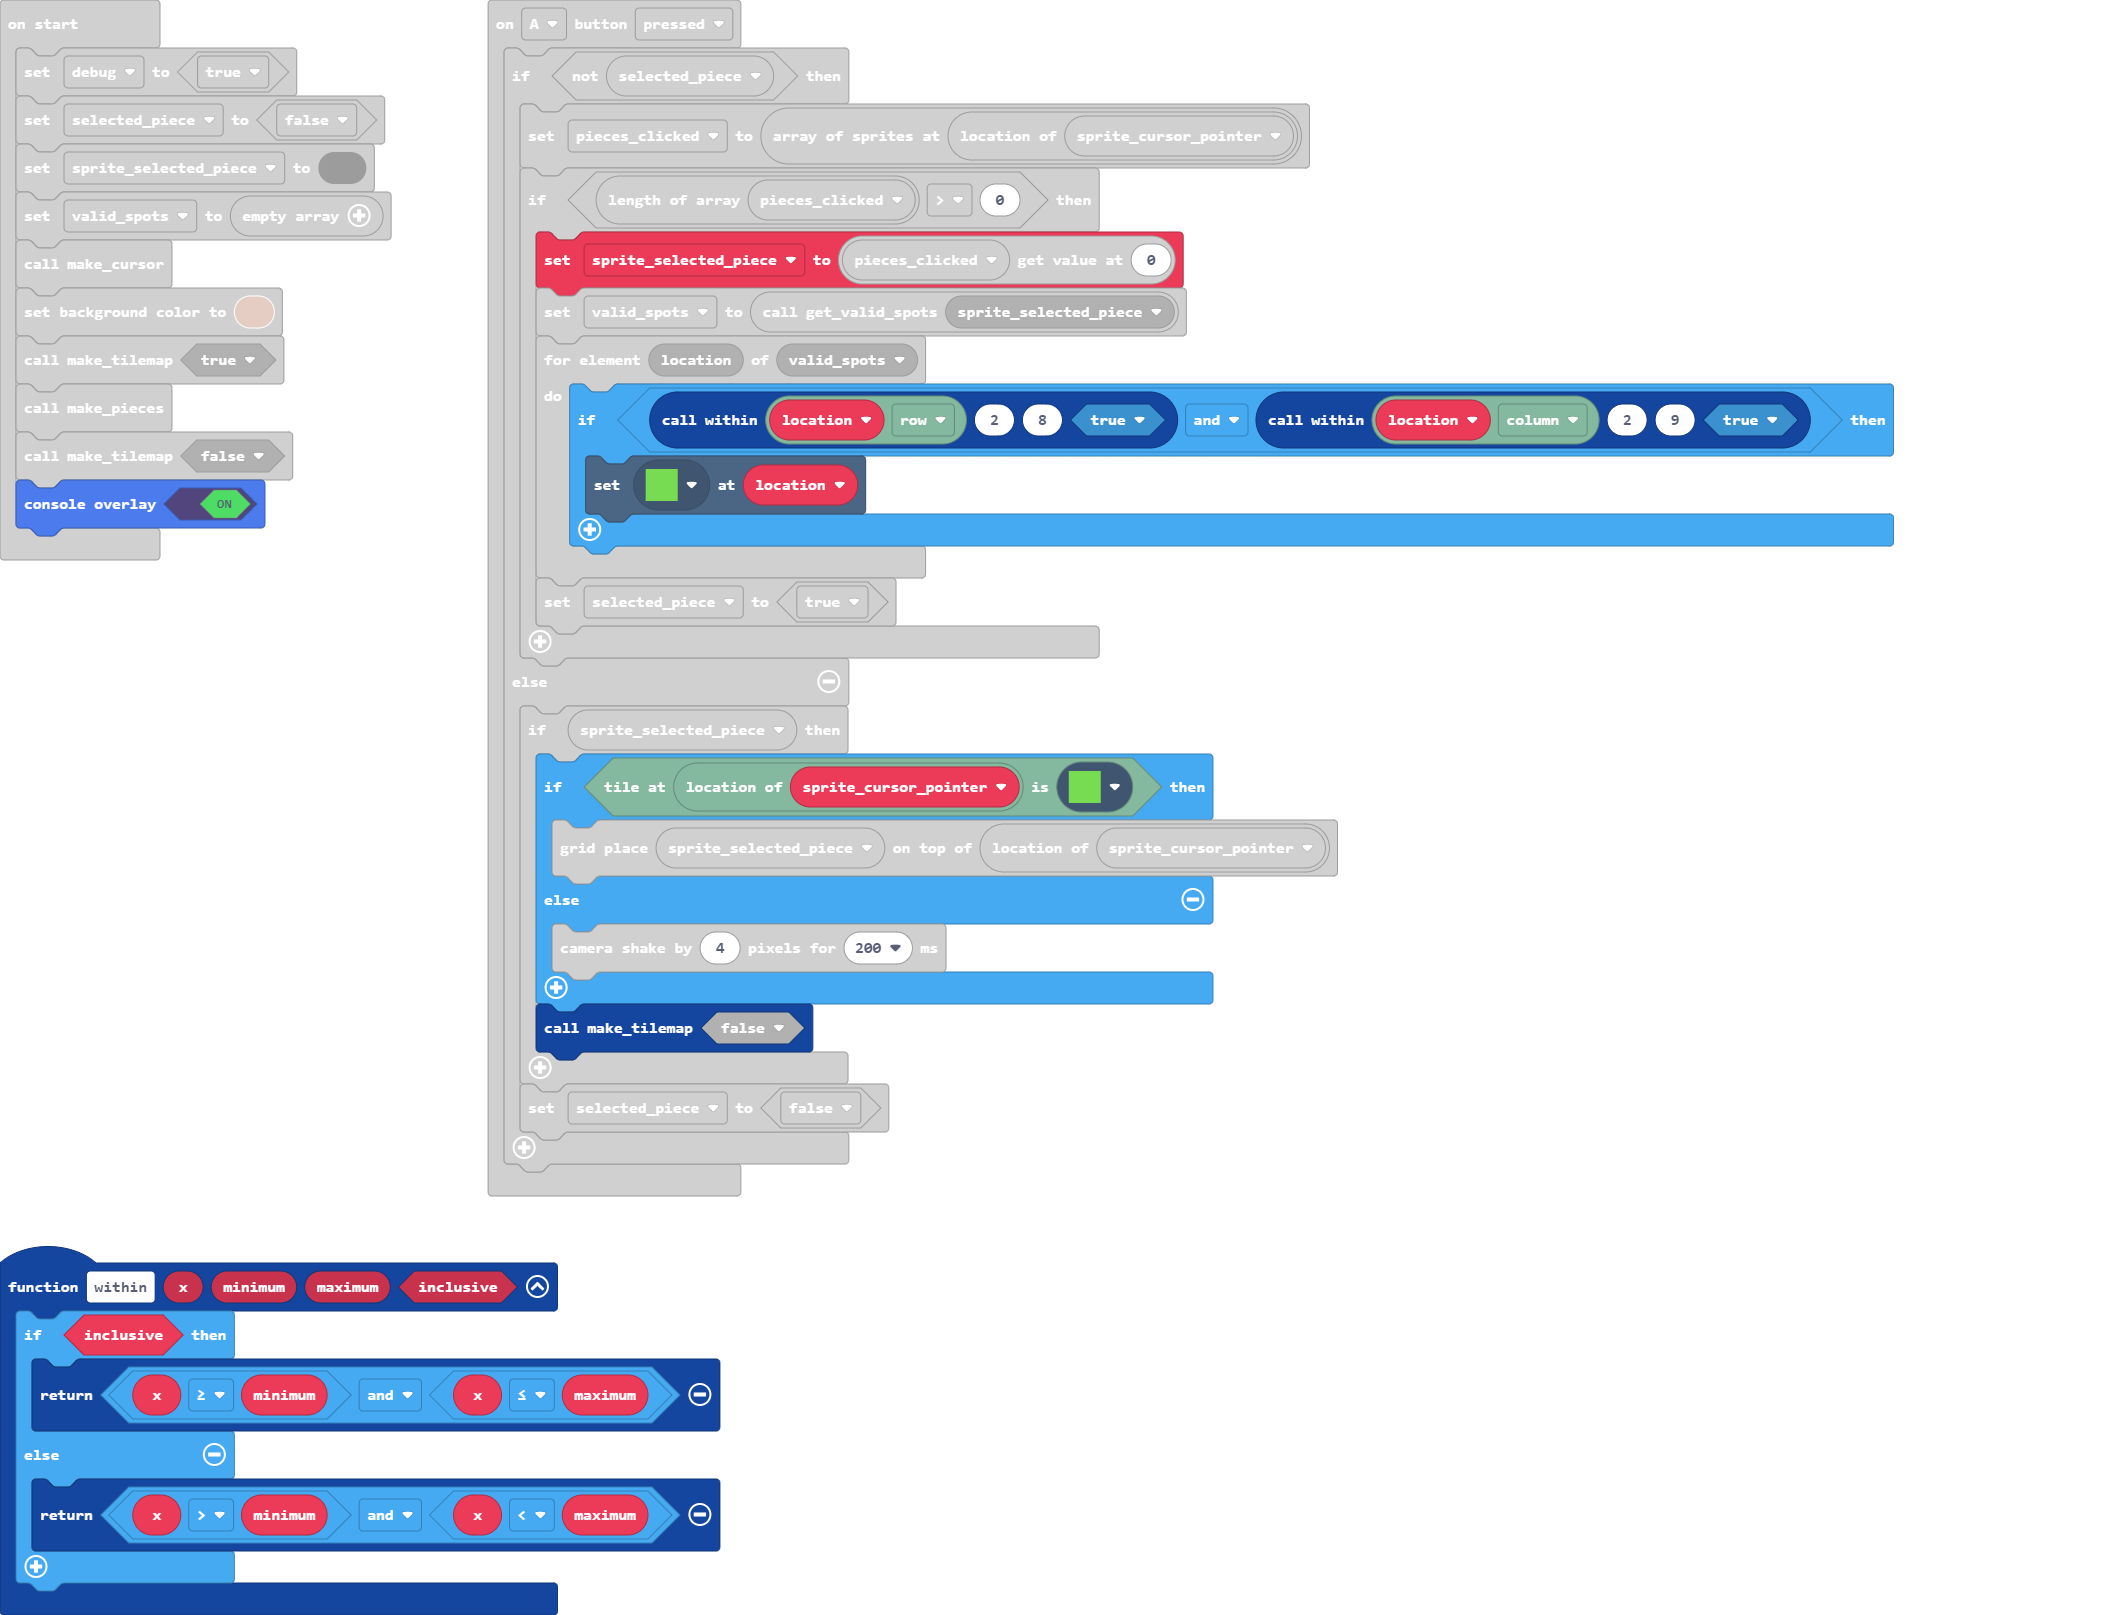
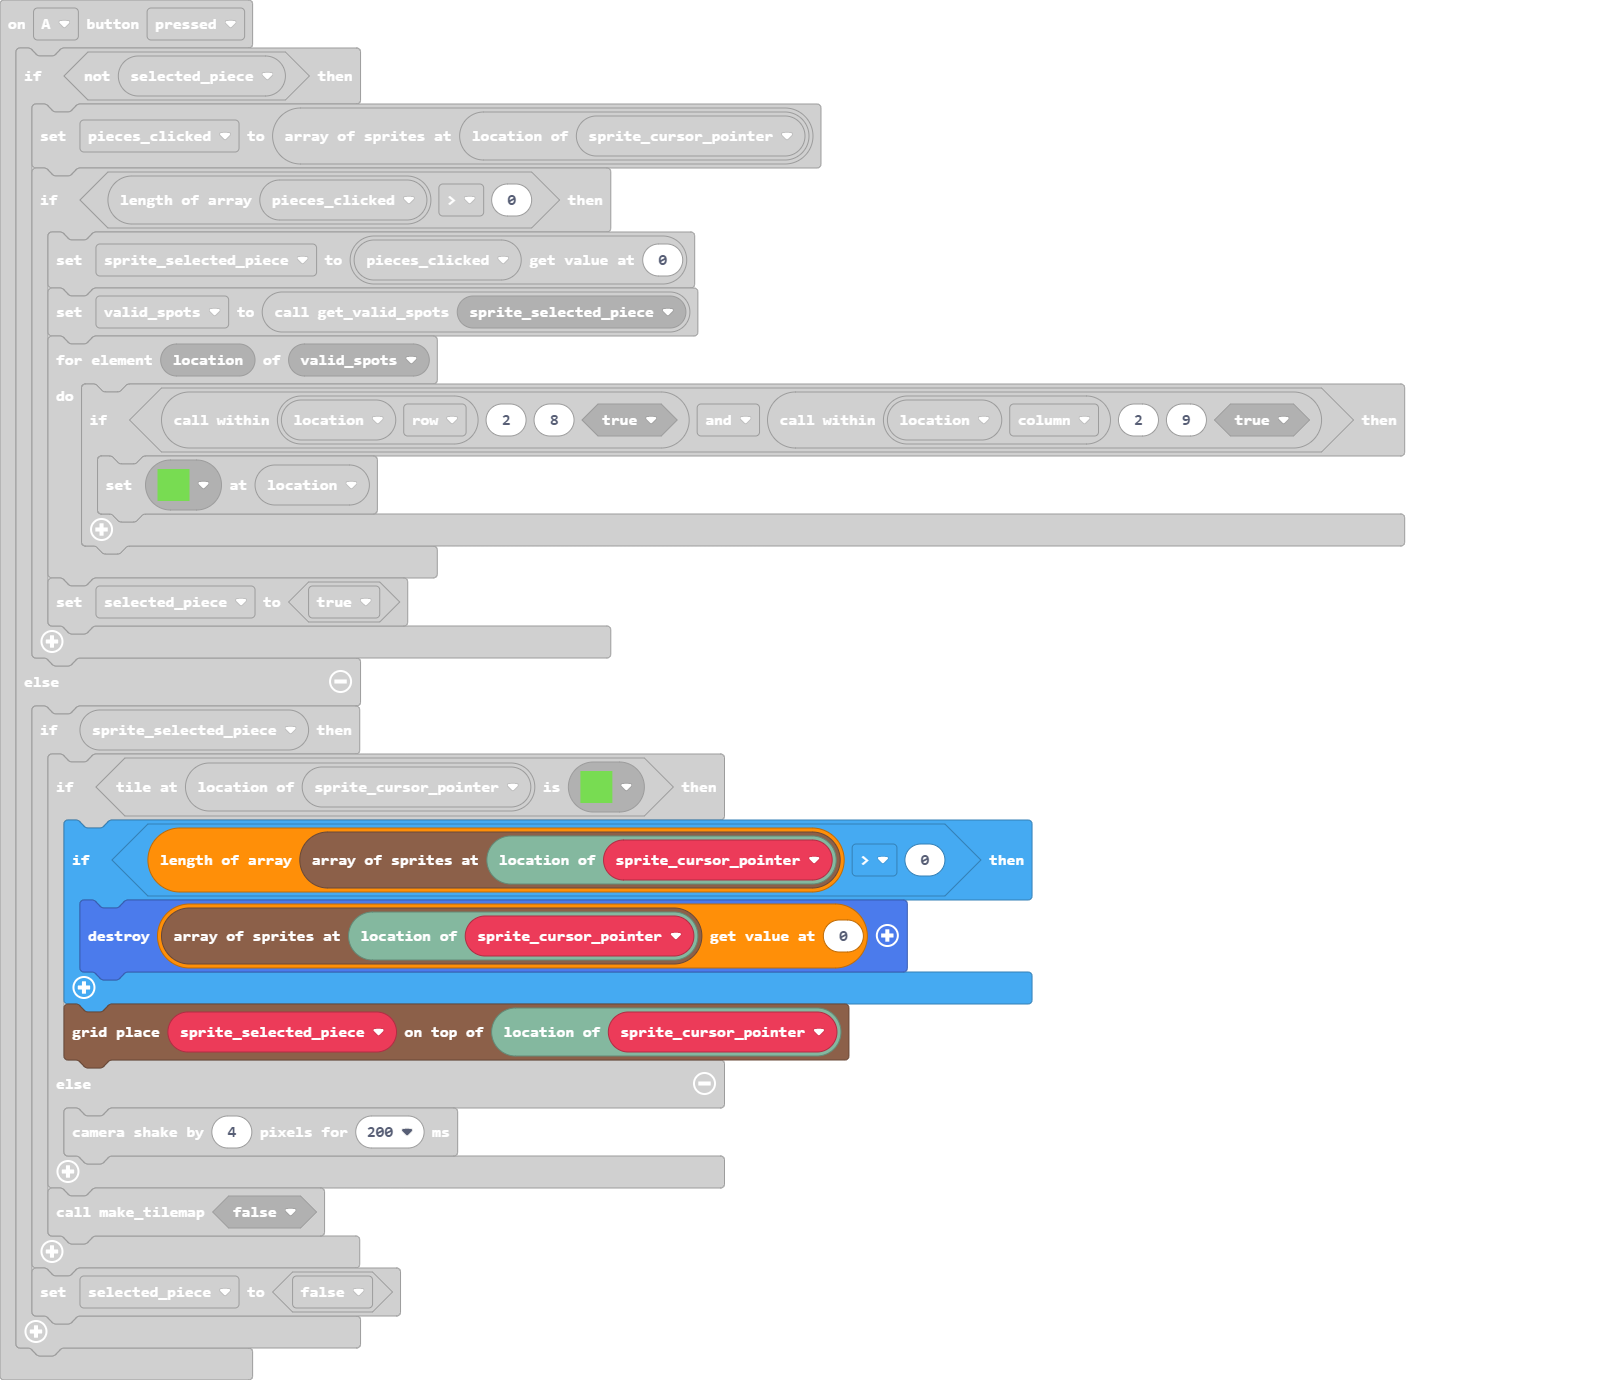
Destroy pieces

diff --git a/main.ts b/main.ts
@@ -70,6 +70,9 @@ controller.A.onEvent(ControllerButtonEvent.Pressed, function () {
     } else {
         if (sprite_selected_piece) {
             if (tiles.tileIs(tiles.locationOfSprite(sprite_cursor_pointer), assets.tile`green_tile`)) {
+                if (grid.getSprites(tiles.locationOfSprite(sprite_cursor_pointer)).length > 0) {
+                    grid.getSprites(tiles.locationOfSprite(sprite_cursor_pointer))[0].destroy()
+                }
                 grid.place(sprite_selected_piece, tiles.locationOfSprite(sprite_cursor_pointer))
             } else {
                 scene.cameraShake(4, 200)
